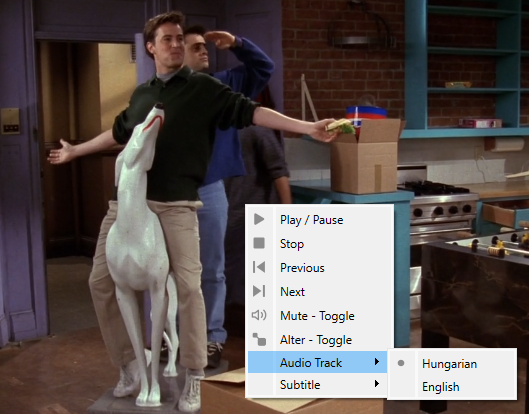
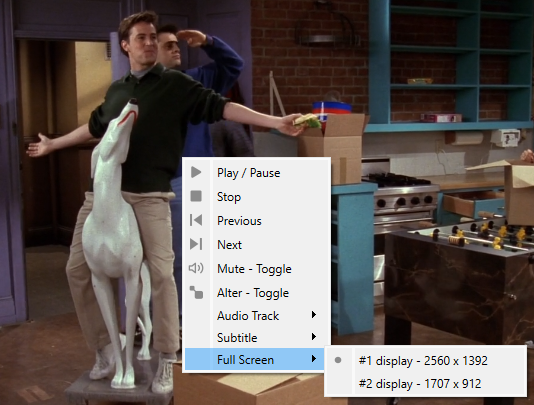
video - full screen on a diff. display than the primary one added

diff --git a/src/av_player.py b/src/av_player.py
@@ -70,6 +70,12 @@ class AVPlayer(QWidget):
                 'icon': None,
                 'menu_sub': '',
                 'subtitle_tracks': [],
+                },
+            'Full Screen': {
+                'icon': None,
+                'menu_sub': '',
+                'screens': [],
+                'screens_pos_x': []
                 }
             }    
 
@@ -133,12 +139,34 @@ class AVPlayer(QWidget):
                     self.context_menu_dic['Subtitle']['menu_sub'].addAction(qaction_to_add)
                     self.context_menu_dic['Subtitle']['subtitle_tracks'].append(subtitle_track_title)
 
+
+                # SCREENS
+                counter = 0
+                for screen in br.app.screens():
+                    screen_width = screen.availableSize().width()
+                    screen_height = screen.availableSize().height()
+                    screen_title = f'#{counter + 1} display - {screen_width} x {screen_height}'
+
+                    if counter == cv.screen_index_for_fullscreen:
+                        qaction_to_add = QAction(br.icon.selected, screen_title, self)
+                    else:
+                        qaction_to_add = QAction(screen_title, self)
+                    self.context_menu_dic['Full Screen']['menu_sub'].addAction(qaction_to_add)
+                    self.context_menu_dic['Full Screen']['screens'].append(screen_title)
+
+                    screen_pos_x = screen.availableGeometry().x()
+                    self.context_menu_dic['Full Screen']['screens_pos_x'].append(screen_pos_x)
+
+                    counter +=1
+                
+                
                 menu.triggered[QAction].connect(self.context_menu_clicked)
                 menu.exec(event.globalPos())
-      
+
+
             # FULL SCREEN TOGGLE 
             elif event.type() == QEvent.Type.MouseButtonDblClick:
-                self.full_screen_toggle()
+                self.full_screen_onoff_toggle()
             
             # VOLUME UPDATE
             elif event.type() == QEvent.Type.Wheel:
@@ -160,6 +188,7 @@ class AVPlayer(QWidget):
     def context_menu_clicked(self, q):
         audio_tracks_list = self.context_menu_dic['Audio Track']['audio_tracks']
         subtitle_tracks_list = self.context_menu_dic['Subtitle']['subtitle_tracks']
+        screens_list = self.context_menu_dic['Full Screen']['screens']
 
         if q.text() == list(self.context_menu_dic)[0]:
             br.button_play_pause.button_play_pause_clicked()
@@ -188,6 +217,14 @@ class AVPlayer(QWidget):
             self.player.setActiveSubtitleTrack(subtitle_track_index)
             cv.subtitle_track_played = subtitle_track_index
             subtitle_tracks_list.clear()
+        
+        elif q.text() in screens_list:
+            screen_selected = screens_list.index(q.text())
+            if cv.screen_index_for_fullscreen != screen_selected:
+                cv.screen_index_for_fullscreen = screen_selected
+                cv.screen_pos_x_for_fullscreen = self.context_menu_dic['Full Screen']['screens_pos_x'][screen_selected]
+            screens_list.clear()
+            self.full_screen_to_screen_toggle()
 
 
     def generate_subtitle_track_title(self, sub_track):
@@ -224,14 +261,27 @@ class AVPlayer(QWidget):
         return audio_track_title
 
 
-    def full_screen_toggle(self):
+    def full_screen_onoff_toggle(self):
+        """ Used when double-clciked on the video area 
+        """
         if self.video_output.isVisible():
             if self.video_output.isFullScreen():
                 self.video_output.setFullScreen(0)
+                self.video_output.move(0, 0)
                 self.video_output.setCursor(Qt.CursorShape.ArrowCursor)
             else:
+                self.video_output.move(cv.screen_pos_x_for_fullscreen, 5) # 2nd value !=0 all good
                 self.video_output.setFullScreen(1)
                 self.video_output.setCursor(Qt.CursorShape.BlankCursor)
+    
+
+    def full_screen_to_screen_toggle(self):
+        """ Used in the right-clicked on the
+            video area / Full Screen
+        """
+        self.video_output.setFullScreen(0)
+        self.video_output.move(cv.screen_pos_x_for_fullscreen, 5) # 2nd value !=0 all good
+        self.video_output.setFullScreen(1)
     
 
     def text_display_on_video(self, time, text):

diff --git a/main.py b/main.py
@@ -34,7 +34,7 @@ from src import (
 
 def main():
     logger_basic('App start')
-    app = QApplication(sys.argv)
+    br.app = QApplication(sys.argv)
 
     br.icon = MyIcon()
     br.window = MyWindow()
@@ -53,7 +53,7 @@ def main():
     br.window.show()
     logger_basic('Window displayed')
 
-    sys.exit(app.exec())
+    sys.exit(br.app.exec())
 
 
 if __name__ == "__main__":

diff --git a/src/class_data.py b/src/class_data.py
@@ -34,6 +34,8 @@ class Data:
     audio_track_played: int = 0
     subtitle_tracks_amount: int = 0
     subtitle_track_played: int = 0
+    screen_index_for_fullscreen: int = 0
+    screen_pos_x_for_fullscreen: int = 0
     window_size_toggle_counter: int = 0
     paylists_without_title_to_hide_index_list = []
     volume_slider_value: int = 0

diff --git a/src/class_bridge.py b/src/class_bridge.py
@@ -4,6 +4,8 @@ from dataclasses import dataclass
 
 @dataclass
 class Bridge:
+    app: object = None
+
     icon: object = None
     window: object = None
     av_player: object = None

diff --git a/README.md b/README.md
@@ -233,7 +233,7 @@
 ### Could not find solution yet
 - Issue: the last frame of the previous video is displayed before a new video starts playing in the scenario: a video is playing --> stop the video or start playing a music track --> playing a new video
     - More info: `src / func_play_coll.py / play_track()`
-- Issue: video`s full-screen surface always opens on/covers the primary screen, even when the app is on the secondary screen/display
+- FIXED: video`s full-screen surface always opens on/covers the primary screen, even when the app is on the secondary screen/display
 - Issue: the video`s own subtitles are not displayed correctly, VLC player recommended for subbed movies
 
 ## Requirements
